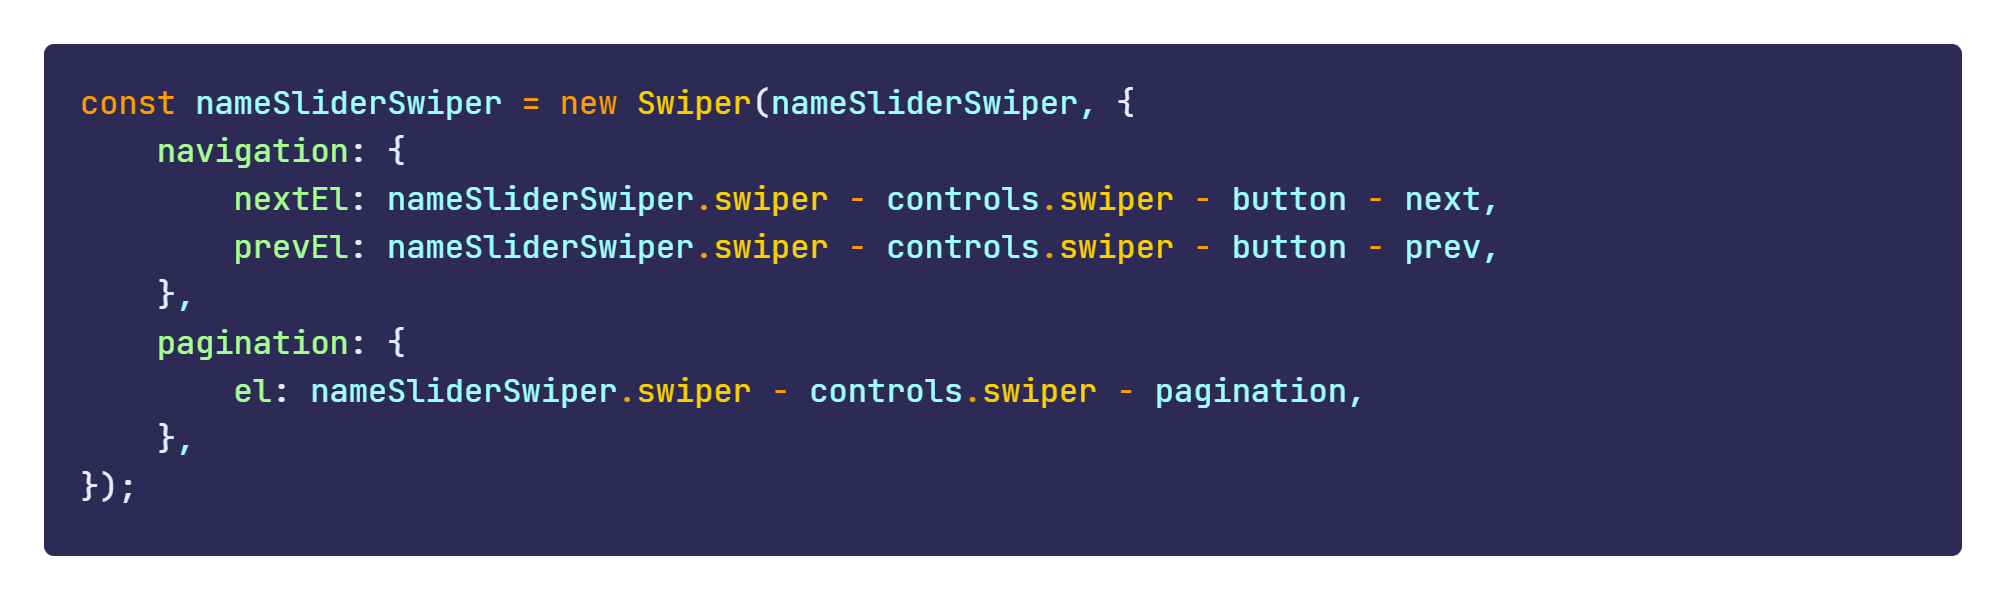
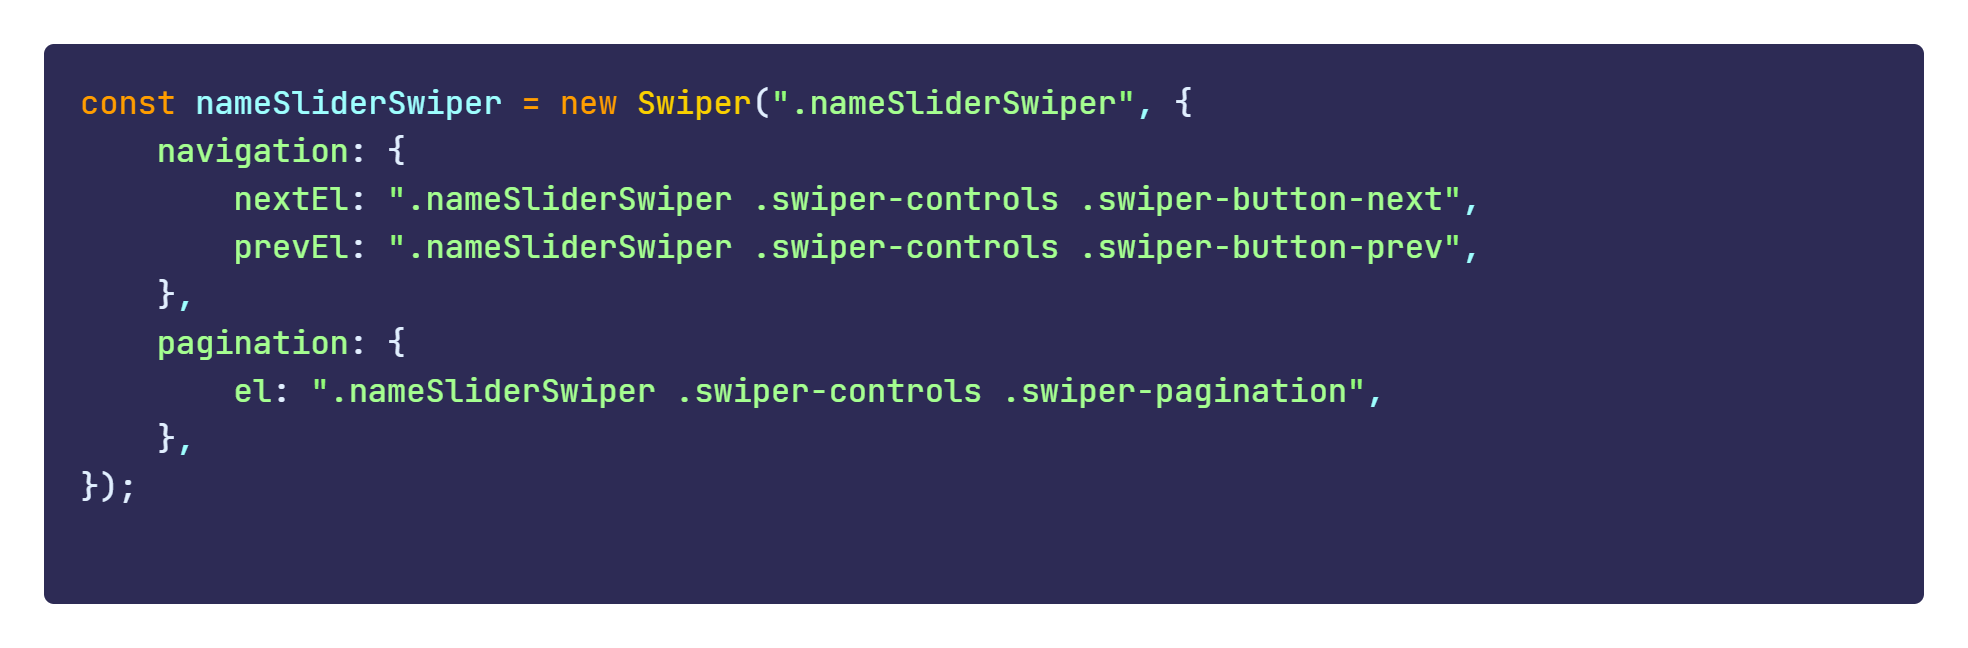
fix: photo in snippet - js-swiper

diff --git a/CHANGELOG.md b/CHANGELOG.md
@@ -2,7 +2,7 @@
 
 All notable changes to this project will be documented in this file. Dates are displayed in UTC.
 
-#### [v0.0.26-v0.0.1]
+#### [v0.0.27-v0.0.1]
 
 > March 1, 2023
 
